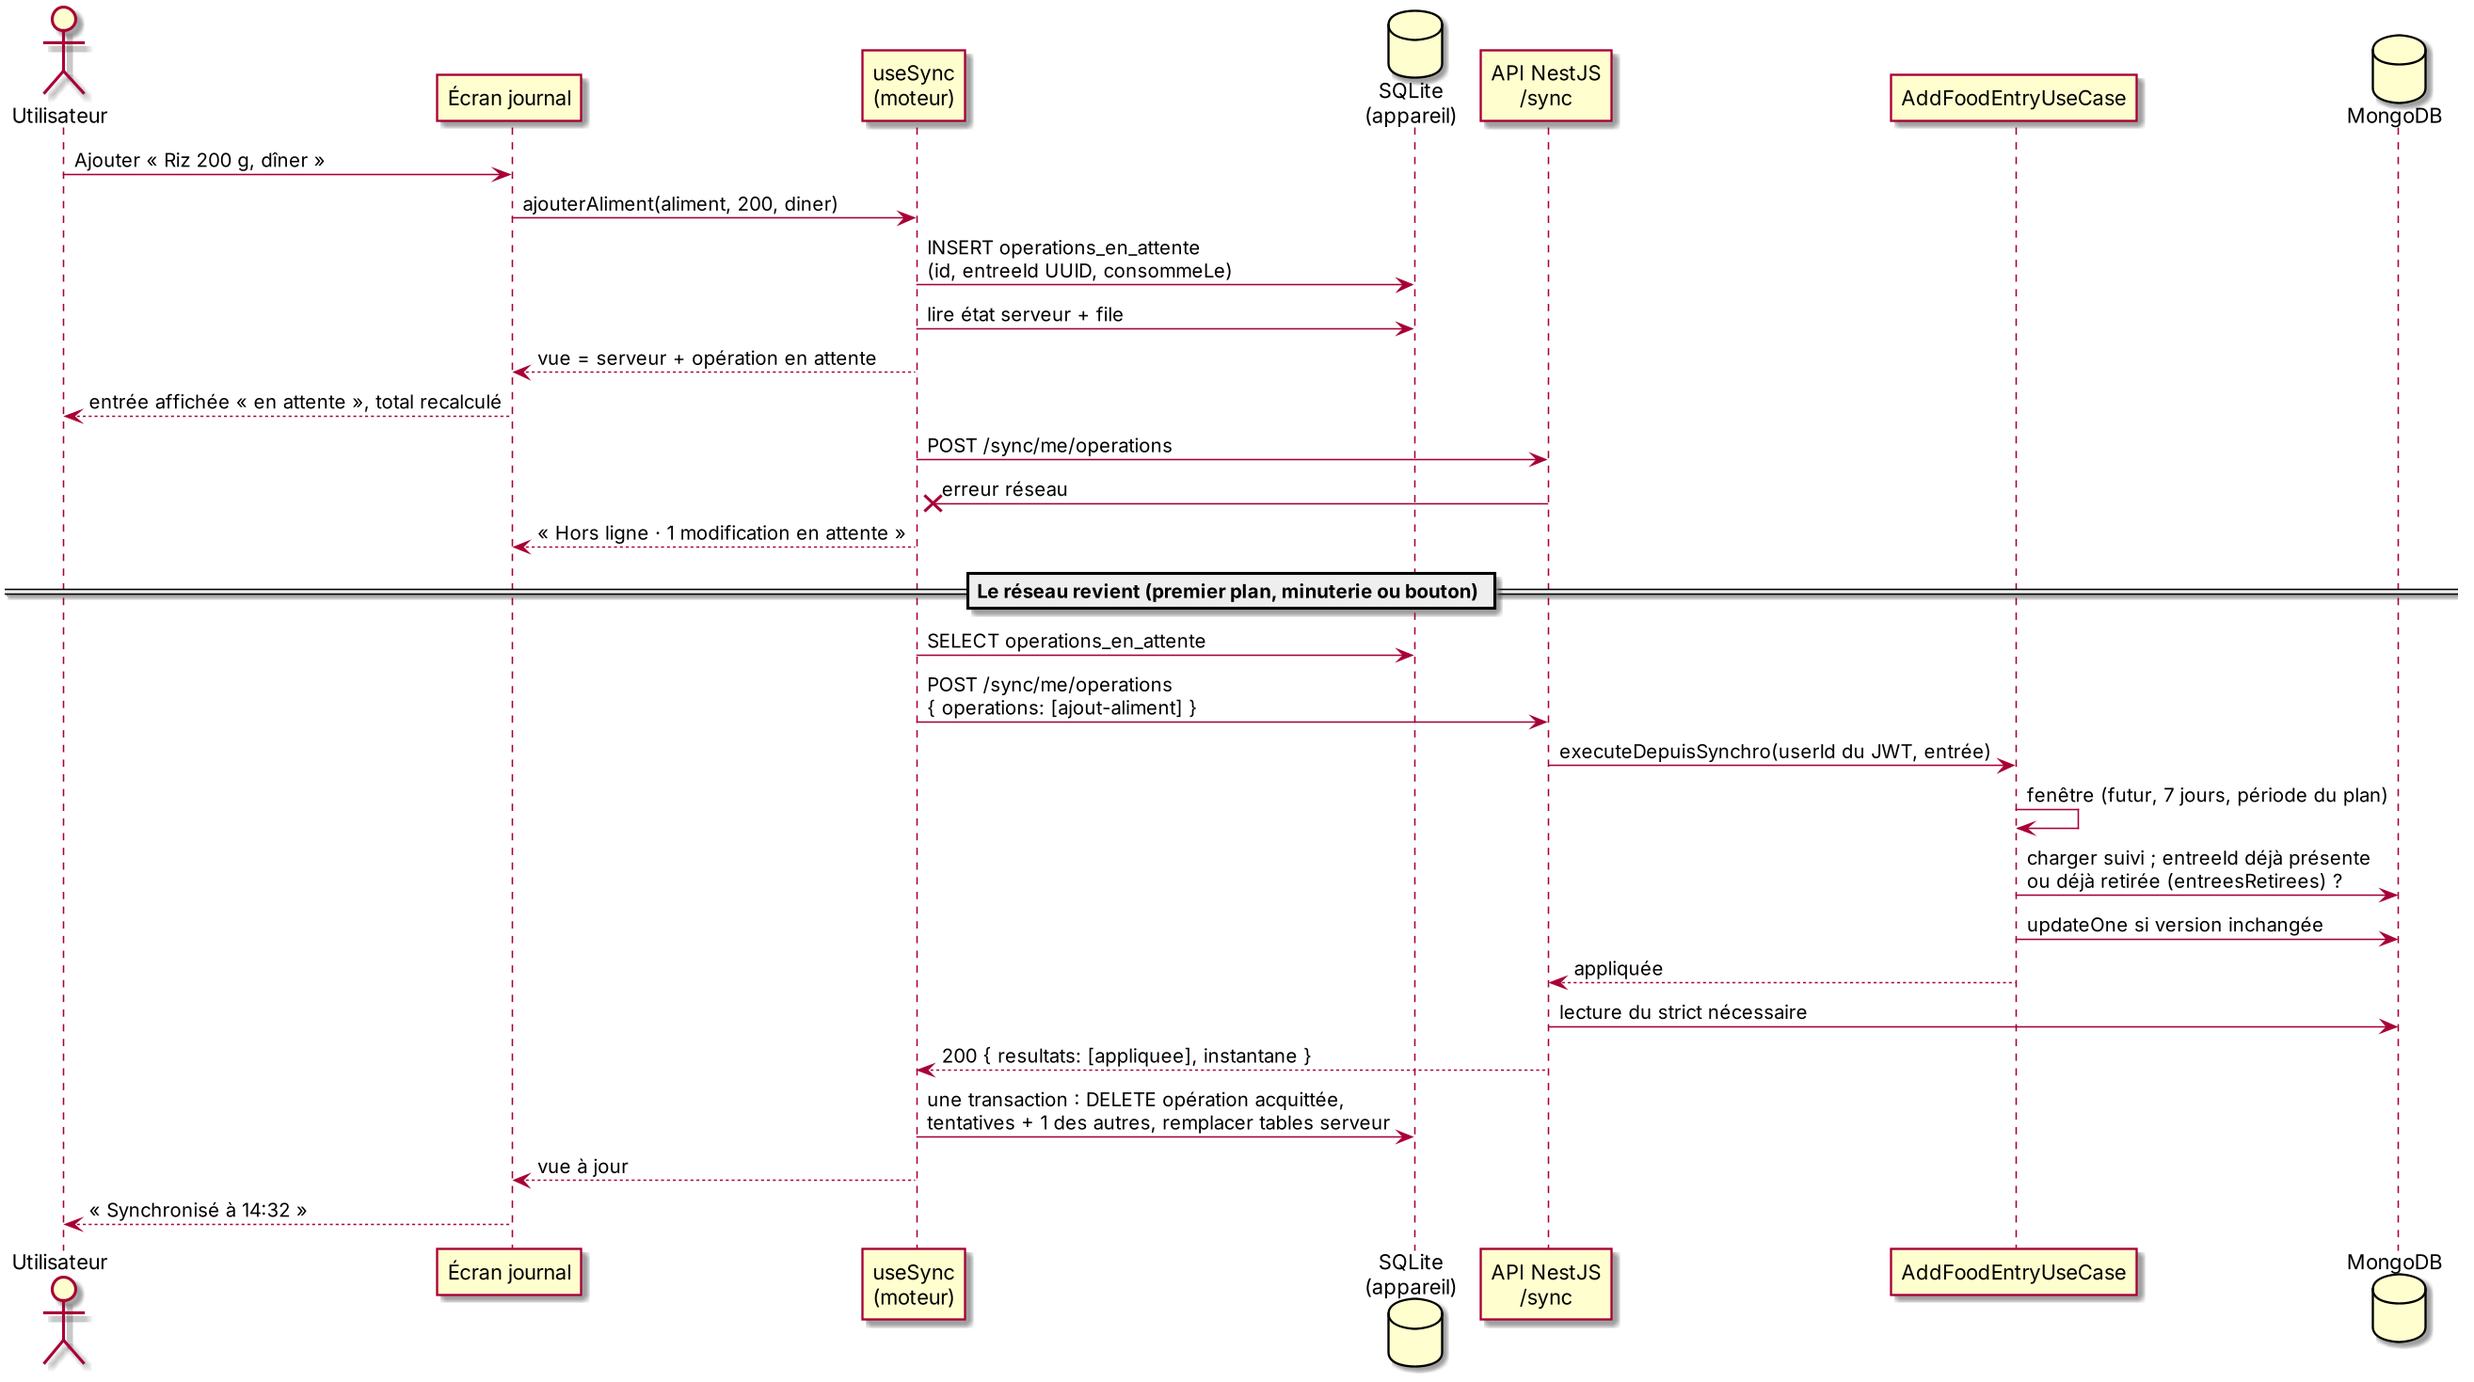
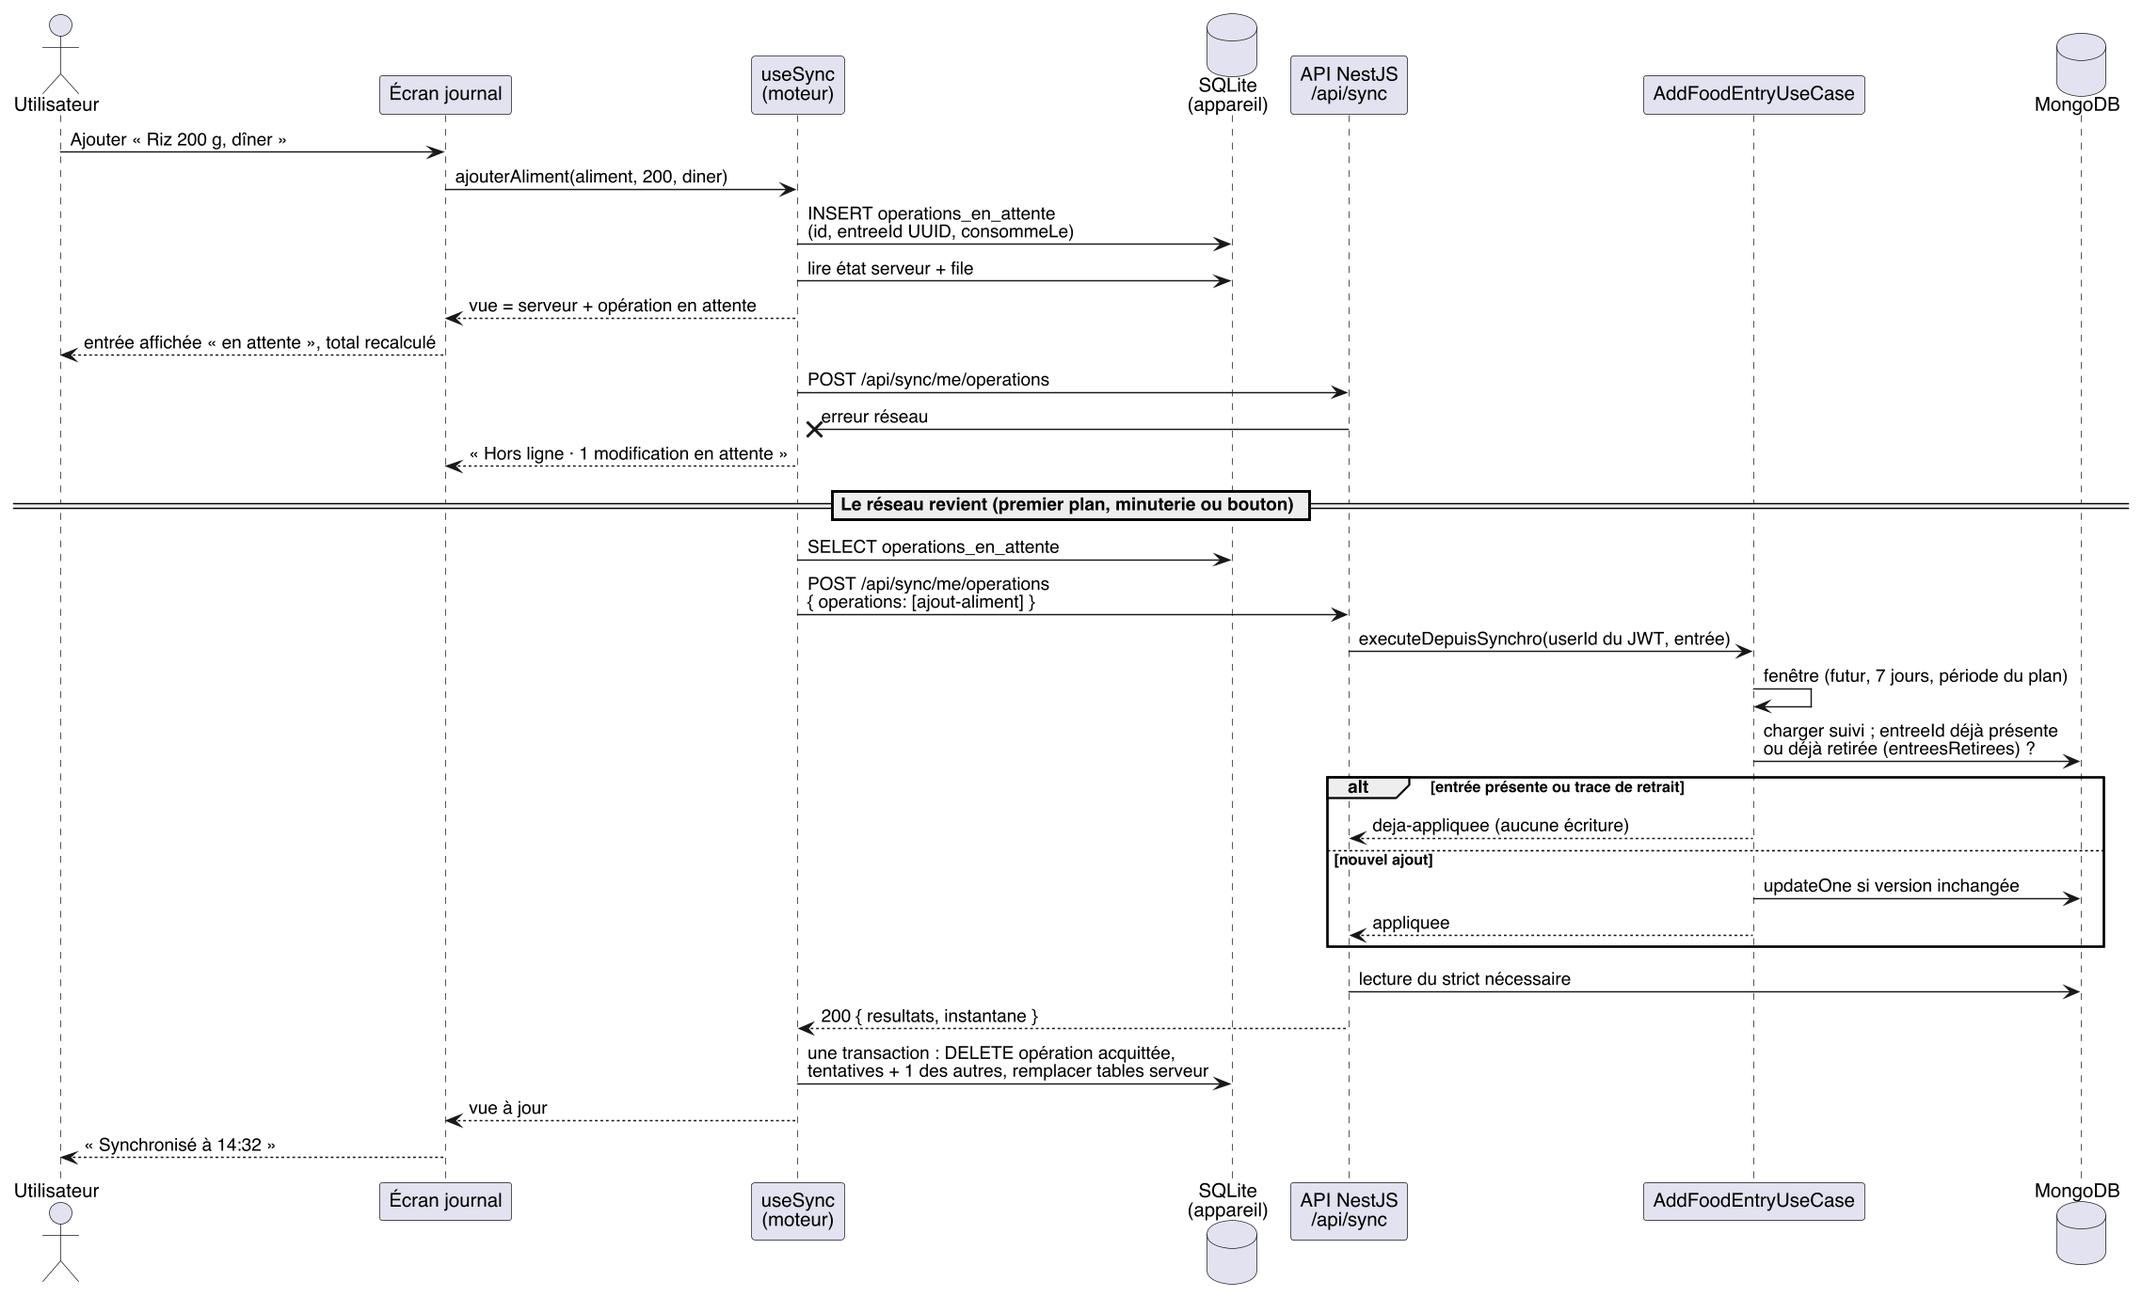
docs(sync): aligne les diagrammes et les preuves de recette (FR403-767)

diff --git a/mobile/src/sync/tests/local-store.test.ts b/mobile/src/sync/tests/local-store.test.ts
@@ -156,7 +156,7 @@ describe("LocalStore SQLite : atomicité et persistance du fichier", () => {
     expect((await store.lireEtatServeur()).curseur).toBe("curseur-1");
   });
 
-  it("retrouve l'état et la file après un arrêt complet (fichier fermé puis rouvert)", async () => {
+  it("retrouve l'état et la file après export du fichier et réouverture dans SQL.js", async () => {
     const premiere = await createSqlJsDatabase();
     const avant = createSqliteStore(premiere);
     await avant.ouvrir("u-1");
@@ -164,12 +164,13 @@ describe("LocalStore SQLite : atomicité et persistance du fichier", () => {
     await avant.enfiler({ id: "op-1", type: "retrait-aliment", entreeId: "e-1" }, "2026-10-06T10:01:00.000Z");
     await avant.noterRecent(pomme, "2026-10-06T10:02:00.000Z");
 
-    // Arrêt de l'application : seul le fichier SQLite subsiste.
+    // Persistance du format SQLite : export sur disque puis fermeture SQL.js.
+    // La fermeture forcee de l'application native se verifie sur telephone.
     const fichier = join(mkdtempSync(join(tmpdir(), "equilibre-sqlite-")), "equilibre.db");
     writeFileSync(fichier, premiere.exporter());
     premiere.fermer();
 
-    // Redémarrage : nouvelle connexion ouverte sur le même fichier, même compte.
+    // Nouvelle connexion SQL.js ouverte sur le meme fichier, meme compte.
     const apres = createSqliteStore(await createSqlJsDatabase(readFileSync(fichier)));
     await apres.ouvrir("u-1");
 

diff --git a/docs/synchronisation.md b/docs/synchronisation.md
@@ -124,7 +124,7 @@ aussi le curseur.
 | Type | Champs | Règle appliquée par le serveur |
 | --- | --- | --- |
 | `ajout-aliment` | `entreeId`, `foodId`, `quantiteGrammes`, `categorieRepas?`, `consommeLe` | Même calcul que l’ajout en ligne. L’heure de consommation de l’appareil est retenue (repas d’hier soir saisi hors ligne → journal d’hier) si elle n’est ni dans le futur (tolérance 5 min), ni plus vieille que 7 jours, ni hors de la période du plan. |
-| `retrait-aliment` | `entreeId` | Recalcul des totaux. Entrée introuvable = déjà retirée. |
+| `retrait-aliment` | `entreeId` | Recalcul des totaux. Entrée introuvable = déjà retirée. À saturation des 500 traces encore nécessaires, refus `food-entry-removal-limit` sans suppression ; les autres opérations du lot continuent. |
 | `saisie-poids` | `mesureId`, `poidsKg`, `saisiLe` | Saisie de secours **du jour** : refusée si elle arrive un autre jour UTC ou si une mesure valide existe déjà ce jour. Horodatée par le serveur à la réception. |
 | `favori` | `foodId`, `favori` | Ajout/retrait idempotent. |
 
@@ -157,6 +157,7 @@ et doit confirmer.
 | --- | --- |
 | Même opération envoyée deux fois (réseau coupé avant la réponse) | Identifiants client → `deja-appliquee`, aucun doublon |
 | Ajout accepté, réponse perdue, entrée retirée ailleurs, puis ajout rejoué | Trace du retrait → `deja-appliquee`, l’entrée **n’est pas recréée** |
+| 500 traces de retrait encore nécessaires | Le retrait suivant est refusé (`409 food-entry-removal-limit` en ligne, `rejetee` en synchronisation), avant toute mutation. L’entrée et les traces restent intactes. Aucune preuve encore rejouable n’est évincée. |
 | Aliment ajouté puis retiré hors ligne, avant envoi | Les deux opérations s’annulent sur l’appareil, rien n’est envoyé |
 | Favori basculé plusieurs fois hors ligne | Seul le dernier choix est envoyé |
 | Balance et saisie manuelle le même jour | Règle « une mesure valide par jour » : la saisie hors ligne est rejetée et l’utilisateur en est informé |
@@ -168,7 +169,7 @@ et doit confirmer.
 | Sens | Règle |
 | --- | --- |
 | Appareil → serveur | Retirer un aliment hors ligne crée une opération `retrait-aliment` dans la file. L’entrée disparaît de l’écran, mais l’opération reste jusqu’à la réponse du serveur. Si l’entrée n’avait pas encore été envoyée, l’ajout et le retrait s’annulent sur l’appareil. Retirer un favori envoie `favori` à `false`. Les mesures de poids ne se suppriment pas (historique conservé, règles de l’US2). |
-| Trace côté serveur | Chaque retrait d’entrée (route en ligne ou `retrait-aliment`) ajoute `{ id, consommeLe, retireeLe }` à `entreesRetirees` du document `suivis`, **dans la même mise à jour versionnée** que la suppression : la trace existe si et seulement si le retrait a été enregistré. Un `ajout-aliment` dont l’`entreeId` figure dans les traces répond `deja-appliquee` sans rien créer. Les traces sont conservées tant que l’ajout peut encore être rejoué (fenêtre de saisie différée de 7 jours, plus 1 jour de marge), et bornées à 500. Pas de nouvelle collection : la preuve vit avec les données qu’elle protège. |
+| Trace côté serveur | Le retrait d’une entrée encore rejouable (route en ligne ou `retrait-aliment`) ajoute `{ id, consommeLe, retireeLe }` à `entreesRetirees` du document `suivis`, **dans la même mise à jour versionnée** que la suppression. Un `ajout-aliment` dont l’`entreeId` figure dans les traces répond `deja-appliquee` sans rien créer. Les traces sont conservées pendant 8 jours à partir de `consommeLe` (fenêtre de saisie différée de 7 jours, plus 1 jour de marge), dans la limite de 500. Seules les traces sorties de cette fenêtre sont purgées. Si 500 traces sont encore nécessaires, un nouveau retrait récent est refusé avant toute mutation (`food-entry-removal-limit`) ; l’appareil restaure l’entrée depuis l’instantané et affiche la raison. Une entrée antérieure à la fenêtre peut être retirée sans nouvelle trace, même à saturation. Pas de nouvelle collection : la preuve vit avec les données qu’elle protège. |
 | Serveur → appareil | Pas de marqueur de suppression : chaque instantané contient **tout** le périmètre embarqué et remplace les tables serveur dans une transaction. Un élément absent de l’instantané disparaît de l’appareil : entrée retirée depuis un autre appareil, favori retiré, journal sorti de la fenêtre J/J-1, mesure de plus de 3 mois. Il n’y a donc aucun marqueur à nettoyer. |
 
 Coût de ce choix : un instantané reste petit (2 journaux, environ 90 mesures,
@@ -184,7 +185,7 @@ actor Utilisateur
 participant "Écran journal" as UI
 participant "useSync\n(moteur)" as Sync
 database "SQLite\n(appareil)" as DB
-participant "API NestJS\n/sync" as API
+participant "API NestJS\n/api/sync" as API
 participant "AddFoodEntryUseCase" as UC
 database MongoDB
 
@@ -194,21 +195,25 @@ Sync -> DB : INSERT operations_en_attente\n(id, entreeId UUID, consommeLe)
 Sync -> DB : lire état serveur + file
 Sync --> UI : vue = serveur + opération en attente
 UI --> Utilisateur : entrée affichée « en attente », total recalculé
-Sync -> API : POST /sync/me/operations
+Sync -> API : POST /api/sync/me/operations
 API -x Sync : erreur réseau
 Sync --> UI : « Hors ligne · 1 modification en attente »
 
 == Le réseau revient (premier plan, minuterie ou bouton) ==
 
 Sync -> DB : SELECT operations_en_attente
-Sync -> API : POST /sync/me/operations\n{ operations: [ajout-aliment] }
+Sync -> API : POST /api/sync/me/operations\n{ operations: [ajout-aliment] }
 API -> UC : executeDepuisSynchro(userId du JWT, entrée)
 UC -> UC : fenêtre (futur, 7 jours, période du plan)
 UC -> MongoDB : charger suivi ; entreeId déjà présente\nou déjà retirée (entreesRetirees) ?
-UC -> MongoDB : updateOne si version inchangée
-UC --> API : appliquée
+alt entrée présente ou trace de retrait
+  UC --> API : deja-appliquee (aucune écriture)
+else nouvel ajout
+  UC -> MongoDB : updateOne si version inchangée
+  UC --> API : appliquee
+end
 API -> MongoDB : lecture du strict nécessaire
-API --> Sync : 200 { resultats: [appliquee], instantane }
+API --> Sync : 200 { resultats, instantane }
 Sync -> DB : une transaction : DELETE opération acquittée,\ntentatives + 1 des autres, remplacer tables serveur
 Sync --> UI : vue à jour
 UI --> Utilisateur : « Synchronisé à 14:32 »
@@ -221,11 +226,11 @@ UI --> Utilisateur : « Synchronisé à 14:32 »
 @startuml
 participant "useSync" as Sync
 database "SQLite" as DB
-participant "API /sync" as API
+participant "API /api/sync" as API
 database MongoDB
 
 Sync -> DB : file vide ? curseur ?
-Sync -> API : GET /sync/me?curseur=abc
+Sync -> API : GET /api/sync/me?curseur=abc
 API -> MongoDB : suivi, mesures, journaux J et J-1, favoris
 API -> API : empreinte du contenu + jour UTC
 alt empreinte = curseur
@@ -245,18 +250,19 @@ end
 actor Utilisateur
 participant "useSync" as Sync
 database "SQLite" as DB
-participant "API /sync" as API
+participant "API /api/sync" as API
 participant "CorrectMeasurementUseCase" as UC
 database MongoDB
 
 Utilisateur -> Sync : saisirPoids(79,4) — hors ligne
 Sync -> DB : INSERT opération saisie-poids
 note over MongoDB : entre-temps, la balance\nenvoie une mesure valide
-Sync -> API : POST /sync/me/operations
+Sync -> API : POST /api/sync/me/operations
 API -> UC : executeDepuisSynchro
 UC -> MongoDB : mesure valide déjà présente ce jour
 UC --> API : 409 measurement-day-conflict
-API --> Sync : { statut: rejetee, code: measurement-day-conflict }
+API -> MongoDB : lire l’instantané à jour
+API --> Sync : 200 { resultats: [rejetee], instantane }\ncode: measurement-day-conflict
 Sync -> DB : une transaction : DELETE opération rejetée,\nremplacer tables serveur
 Sync --> Utilisateur : « Ton poids saisi (79,4 kg) n’a pas été retenu :\nune mesure valide existait déjà ce jour-là. »
 @enduml
@@ -295,10 +301,15 @@ Aucune règle métier n’est dupliquée : `AddFoodEntryUseCase` et
 
 | Niveau | Fichier | Couvre |
 | --- | --- | --- |
-| Unitaires API | `saisie-differee*.spec.ts`, `add-food-entry.use-case.spec.ts`, `suivi.entrees-retirees.spec.ts`, `apply-sync-operations.use-case.spec.ts`, `sync.dto.spec.ts` | Fenêtres temporelles, idempotence (y compris rejeu après retrait), traces de retrait (purge, borne), classification des résultats, curseur, validation |
+| Unitaires API | `saisie-differee*.spec.ts`, `add-food-entry.use-case.spec.ts`, `suivi.entrees-retirees.spec.ts`, `apply-sync-operations.use-case.spec.ts`, `sync.dto.spec.ts` | Fenêtres temporelles, idempotence (y compris rejeu après retrait), traces de retrait (purge, saturation sans perte, retrait ancien), classification des résultats, curseur, validation |
 | HTTP API | `sync.controller.spec.ts` | 401/403, 200 puis 204 avec curseur, conversion des dates, 400, Swagger |
-| Intégration API (MongoDB réel, sans mock) | `test/sync.integration-spec.ts` | Pull, push, rejeu sans doublon, rejeu d’un ajout après retrait de l’entrée, refus métier, état final de la base |
-| Mobile | `src/sync/tests/*.test.ts` | Contrat identique des adaptateurs SQLite (vrai SQL via sql.js) et mémoire, projection, moteur, store ; réponse d’un push appliquée en une transaction (rien n’est acquitté si l’écriture échoue) ; état et file retrouvés après fermeture puis réouverture du fichier SQLite |
+| Intégration API (MongoDB réel, sans mock) | `test/sync.integration-spec.ts` | Pull, push, rejeu sans doublon, rejeu d’un ajout après retrait de l’entrée, saturation des 500 traces sans perte ni écriture partielle, poursuite du lot après refus, état final de la base |
+| Mobile | `src/sync/tests/*.test.ts` | Contrat identique des adaptateurs SQLite (vrai SQL via SQL.js) et mémoire, projection, moteur, store ; réponse d’un push appliquée en une transaction (rien n’est acquitté si l’écriture échoue) ; export d’un fichier sur disque et réouverture dans une nouvelle connexion SQL.js |
+
+Le test SQL.js vérifie le fichier et le SQL du store. La conservation après
+fermeture forcée de l’application native se valide sur téléphone avec la
+recette suivante (étapes 3, 4 et 6), en notant la date et l’appareil dans
+« Observé ».
 
 ```bash
 pnpm test                       # unitaires API
@@ -324,7 +335,7 @@ La colonne « Observé » se remplit pendant la recette (date, OK ou KO, remarqu
 | 1 | Se connecter, ouvrir le suivi | « Synchronisé à hh:mm » | |
 | 2 | Activer le mode Avion, rouvrir l’app | Session reprise, données affichées, bandeau « Hors ligne » | |
 | 3 | Ajouter « Riz blanc cuit 200 g » hors ligne | Entrée visible « en attente », total +260 kcal, statut recalculé | |
-| 4 | Fermer complètement l’app, la rouvrir toujours hors ligne | L’entrée et l’opération en attente sont toujours là | |
+| 4 | Fermer complètement l’app, la rouvrir toujours hors ligne | L’entrée et l’opération en attente sont toujours là | 20/10/2026 — OK, confirmé par le porteur du projet : la mention « en attente » persiste. Modèle et version de l’application non relevés. |
 | 5 | Ajouter puis retirer un aliment hors ligne | Rien en attente pour cet aliment | |
 | 6 | Désactiver le mode Avion | Bandeau « Synchronisé », entrée confirmée ; visible dans MongoDB (collection `suivis`) | |
 | 7 | Couper le réseau pendant l’envoi (mode Avion juste après l’ajout), puis le rétablir | Une seule entrée dans MongoDB, aucun doublon | |

diff --git a/docs/diagrammes/README.md b/docs/diagrammes/README.md
@@ -1,0 +1,28 @@
+# Diagrammes des retours formateurs
+
+Les fichiers `.puml` sont les sources des diagrammes de séquence. Les images
+PNG sont jointes aux pages Confluence « Tests Automatiques » et
+« Synchronisation ». Le schéma MongoDB est décrit dans `bdd-mongodb.dot` et
+joint à la page « BDD ».
+
+Les séquences ont été régénérées avec PlantUML 1.2026.9 le 20 octobre 2026 :
+
+```bash
+java -Djava.awt.headless=true -jar /chemin/plantuml.jar \
+  -tpng -charset UTF-8 docs/diagrammes/*.puml
+```
+
+Les trois sources `sequence-*.puml` reprennent les séquences de
+`docs/synchronisation.md`. Lors d'une correction, mettre à jour les deux
+sources, régénérer les PNG, puis remplacer les images sur Confluence.
+
+Le schéma documentaire se régénère avec Graphviz :
+
+```bash
+dot -Tpng docs/diagrammes/bdd-mongodb.dot -o docs/diagrammes/bdd-mongodb.png
+```
+
+Le diagramme de test US1 utilise un plan de 80 à 75 kg sur 35 jours. Le
+diagramme de synchronisation couvre le rejeu après retrait et la saturation
+des 500 traces : aucune preuve encore rejouable n'est évincée ; le nouveau
+retrait est refusé et l'entrée reste conservée.

diff --git a/docs/journal-alimentaire.md b/docs/journal-alimentaire.md
@@ -59,6 +59,12 @@ comme une journée sans données par le calcul du statut alimentaire.
 
 Le retrait est aussi tracé (`entreesRetirees` du suivi, dans la même écriture) :
 un ajout rejoué plus tard par la synchronisation ne recrée pas l'entrée.
+Les traces restent présentes 8 jours à partir de la consommation. Quand les
+500 emplacements sont encore nécessaires, un nouveau retrait récent reçoit
+`409 food-entry-removal-limit` : le journal, ses totaux et les preuves restent
+intacts. La synchronisation classe ce refus `rejetee`, en explique la raison
+et continue le lot. Les traces ne sont purgées qu'après cette fenêtre ; une
+entrée plus ancienne peut être retirée sans ajouter de trace.
 
 ## Consulter une journée antérieure (FR403-754)
 
